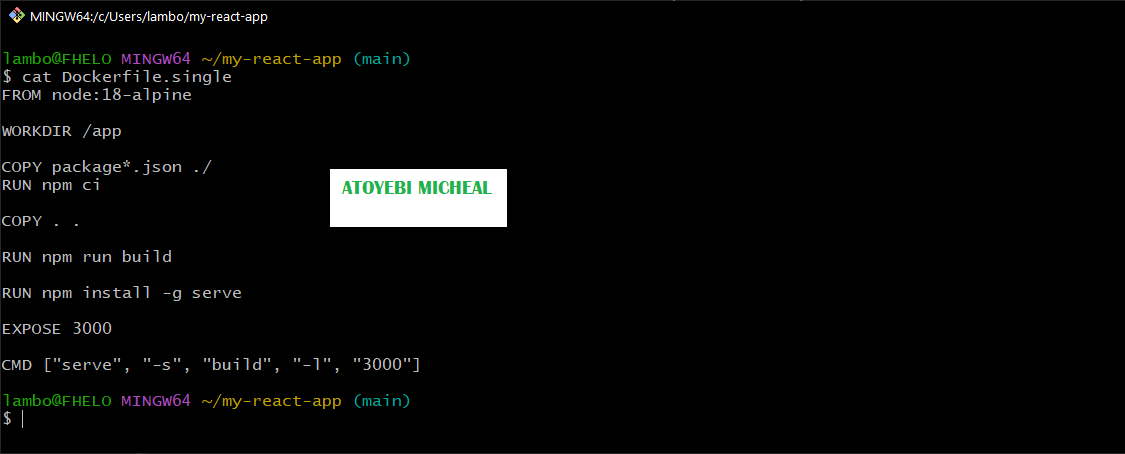
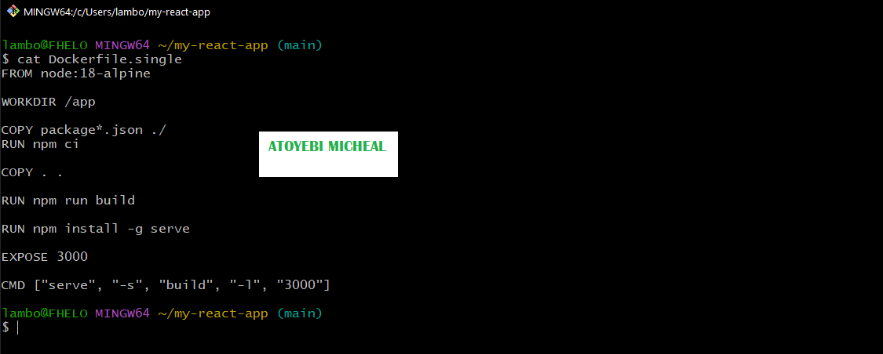
Docker Assignment 5

diff --git a/week-11-docker/assignment-05-sharing-the-docker-container-on-docker-hub.md b/week-11-docker/assignment-05-sharing-the-docker-container-on-docker-hub.md
@@ -20,49 +20,49 @@ Create a Docker Hub repository (`my-react-app`), log in from the CLI, tag and pu
 
 #### Screenshot 1 — Docker Hub repository (`my-react-app`)
 
-Add your screenshot here.
+![alt text](screenshots/As5T1ss1.png)
 
 ---
 
 #### Screenshot 2 — Successful `docker login`
 
-Add your screenshot here.
+![alt text](screenshots/As5T1ss2.png)
 
 ---
 
 #### Screenshot 3 — Successful `docker tag`
 
-Add your screenshot here.
+![alt text](screenshots/As5T1ss3.png)
 
 ---
 
 #### Screenshot 4 — Successful `docker push`
 
-Add your screenshot here.
+![alt text](screenshots/As5T1ss4.png)
 
 ---
 
 #### Screenshot 5 — Docker Hub repository showing the uploaded image
 
-Add your screenshot here.
+![alt text](screenshots/As5T1ss5.png)
 
 ---
 
 #### Screenshot 6 — Successful `docker pull`
 
-Add your screenshot here.
+![alt text](screenshots/As5T1ss6.png)
 
 ---
 
 #### Screenshot 7 — Output of `docker ps`
 
-Add your screenshot here.
+![alt text](screenshots/As5T1ss7.png)
 
 ---
 
 #### Screenshot 8 — Browser displaying the running React application
 
-Add your screenshot here.
+![alt text](screenshots/As5T1ss8.png)
 
 ---
 
